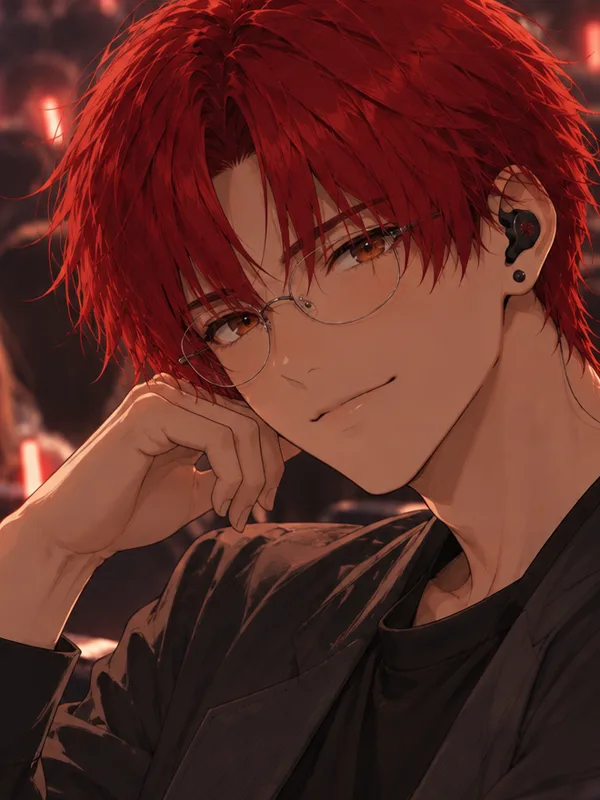
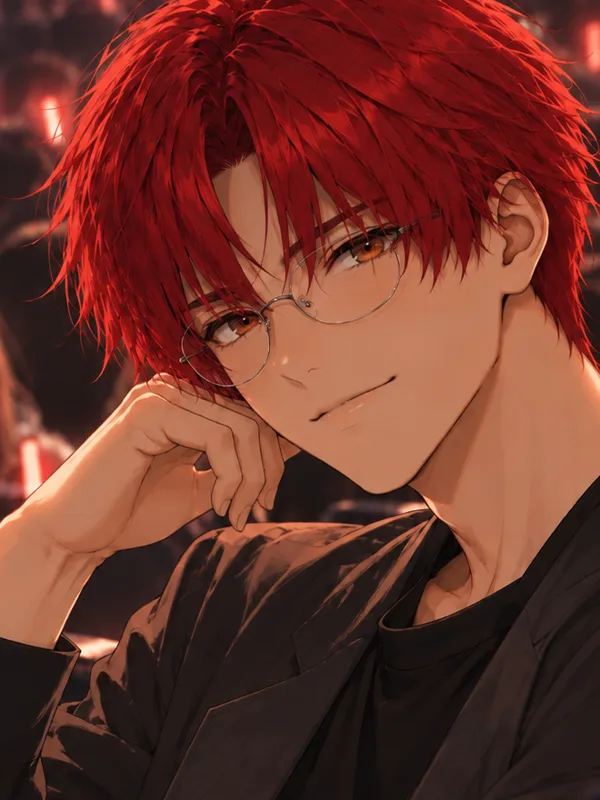
After the Snow：子どもたちの絵を前編・後編で切り替えるボタンを追加・あらすじに一文追加・ヒナタの顔を大きく・コウタの絵を差し替え
Claude-Session: https://claude.ai/code/session_01FdSiFhqbN4GMZTxUURhhZr

diff --git a/stories/snowflakes/arc/arcs.js b/stories/snowflakes/arc/arcs.js
@@ -96,12 +96,13 @@ window.SF_ARCS = [
     songs: [], gallery: [] },
   { id: 'after-the-snow', group: 'ch2', no: 1, color: 'mikoto', title: 'After the Snow', en: 'After the Snow',
     parts: [{ name: '前編', from: 310, to: 355 }, { name: '後編', from: 356, to: null }],   // ep.356 から後編（2026-11-14 ユーザー）。to: null … 連載中（episodes.js の最後まで）
-    kindle: null, lead: "バンドも、家族も、それぞれの毎日も。\n\n三人の音は、まだ続いている。", ongoing: true, shorts: [], songs: [], gallery: [],
+    kindle: null, lead: "バンドも、家族も、それぞれの毎日も。\n\n三人の音は、まだ続いている。\n\nそして、その音を聴いて育った子どもたちの物語。", ongoing: true, shorts: [], songs: [], gallery: [],
     // 登場人物（2026-11-14 ユーザー）。img はこのフォルダからのパス、c は枠の色（hinata / kouta / hayate）
+    //   imgs：前編・後編で絵を分ける人（{ 前編: 画像, 後編: 画像 }）。切り替えボタンで出し分ける。img だけの人は、どちらでも同じ絵
     chars: [
-      { name: 'ミコト', desc: 'ヒナタと小雪の娘', img: 'img/chara_mikoto_v2.webp', c: 'hinata', alt: 'ミコト。並木道で、かばんを肩にかけた黒髪ロングの女性' },
-      { name: 'ヒカリ', desc: 'ハヤテとりんの娘', img: 'img/chara_hikari_v2.webp', c: 'hayate', alt: 'ヒカリ。並木道で笑う、茶色のショートヘアの女性' },
-      { name: 'ユウキ', desc: 'コウタとあかりの息子', img: 'img/chara_yuuki.webp', c: 'kouta', alt: 'ユウキ。バイオリンを弾く、赤髪の青年' },
+      { name: 'ミコト', desc: 'ヒナタと小雪の娘', imgs: { 前編: 'img/chara_mikoto.webp', 後編: 'img/chara_mikoto_v2.webp' }, c: 'hinata', alt: 'ミコト。黒髪ロングの女性' },
+      { name: 'ヒカリ', desc: 'ハヤテとりんの娘', imgs: { 前編: 'img/chara_hikari.webp', 後編: 'img/chara_hikari_v2.webp' }, c: 'hayate', alt: 'ヒカリ。茶色のショートヘアの女性' },
+      { name: 'ユウキ', desc: 'コウタとあかりの息子', imgs: { 前編: 'img/chara_yuuki.webp', 後編: 'img/chara_yuuki.webp' }, c: 'kouta', alt: 'ユウキ。バイオリンを弾く、赤髪の青年' },   // 後編の絵は届いたら差し替え
       // 2段目は Snow flakes の三人（上の段と同じ順：ヒナタ・ハヤテ・コウタ）。「〜の父」とは書かない（2026-11-14 ユーザー）
       { name: 'ヒナタ', desc: 'Snow flakes ギターボーカル', img: 'img/chara_hinata.webp', c: 'hinata', alt: 'ヒナタ。青いペンライトが光る客席で、キャップをかぶり頬杖をつく' },
       { name: 'ハヤテ', desc: 'Snow flakes ドラム', img: 'img/chara_hayate.webp', c: 'hayate', alt: 'ハヤテ。紫のペンライトが光る客席で、サングラスに手をかけて振り返り笑う' },

diff --git a/stories/arc/arc.js b/stories/arc/arc.js
@@ -142,10 +142,22 @@
   var charsEl = $('#arc-chars');
   if (charsEl) {
     var chars = arc.chars || [];
-    charsEl.innerHTML = chars.length ? '<div class="arc-chars">' + chars.map(function (c) {
-      return '<figure class="arc-char' + (c.c ? ' c-' + esc(c.c) : '') + '"><img src="' + esc(c.img) + '" alt="' + esc(c.alt || c.name) + '" loading="lazy">' +
-        '<figcaption><span class="arc-char-name">' + esc(c.name) + '</span>' + (c.role ? '<span class="arc-char-role">' + esc(c.role) + '</span>' : '') + '<span class="arc-char-desc">' + esc(c.desc || '') + '</span></figcaption></figure>';
-    }).join('') + '</div>' : '';
+    // 前編・後編で絵を分ける人がいれば、切り替えボタンを出す（最初は最新の編。2026-11-14）
+    var keys = [];
+    chars.forEach(function (c) { if (c.imgs) Object.keys(c.imgs).forEach(function (k) { if (keys.indexOf(k) < 0) keys.push(k); }); });
+    var pick = keys.length ? keys[keys.length - 1] : null;
+    var drawChars = function () {
+      charsEl.innerHTML = (keys.length > 1 ? '<div class="arc-char-tabs" role="tablist">' + keys.map(function (k) {
+          return '<button type="button" role="tab" class="arc-char-tab' + (k === pick ? ' is-on' : '') + '" aria-selected="' + (k === pick) + '" data-k="' + esc(k) + '">' + esc(k) + '</button>';
+        }).join('') + '</div>' : '') +
+        '<div class="arc-chars">' + chars.map(function (c) {
+          var img = c.imgs ? (c.imgs[pick] || c.imgs[keys[0]]) : c.img;
+          return '<figure class="arc-char' + (c.c ? ' c-' + esc(c.c) : '') + '"><img src="' + esc(img) + '" alt="' + esc((c.alt || c.name) + (c.imgs && pick ? '（' + pick + '）' : '')) + '" loading="lazy">' +
+            '<figcaption><span class="arc-char-name">' + esc(c.name) + '</span>' + (c.role ? '<span class="arc-char-role">' + esc(c.role) + '</span>' : '') + '<span class="arc-char-desc">' + esc(c.desc || '') + '</span></figcaption></figure>';
+        }).join('') + '</div>';
+      charsEl.querySelectorAll('.arc-char-tab').forEach(function (b) { b.addEventListener('click', function () { pick = b.dataset.k; drawChars(); }); });
+    };
+    if (chars.length) drawChars(); else charsEl.innerHTML = '';
     $('#characters').hidden = !chars.length;
   }
   $('#songs').hidden = !songs.length;

diff --git a/stories/arc/arc.css b/stories/arc/arc.css
@@ -214,3 +214,8 @@ footer { text-align: center; padding: 40px 20px 60px; font-size: 12px; color: va
 .arc-char-desc { font-size: 12px; line-height: 1.7; color: #94a3b8; }
 .arc-char-role { font-size: 11px; letter-spacing: 1px; color: rgba(var(--c), 0.9); }
 @media (max-width: 600px) { .arc-chars { gap: 8px; } .arc-char figcaption { padding: 8px 8px 10px; gap: 2px; } .arc-char-name { font-size: 14px; letter-spacing: 1px; } .arc-char-role { font-size: 9.5px; letter-spacing: 0; } .arc-char-desc { font-size: 10.5px; line-height: 1.5; } }
+/* 登場人物：前編・後編の切り替え（2026-11-14） */
+.arc-char-tabs { display: inline-flex; gap: 4px; padding: 3px; margin-bottom: 14px; border: 1px solid rgba(255,255,255,0.12); border-radius: 999px; }
+.arc-char-tab { appearance: none; border: 0; background: transparent; color: #94a3b8; font: inherit; font-size: 13px; letter-spacing: 2px; padding: 6px 18px; border-radius: 999px; cursor: pointer; }
+.arc-char-tab.is-on { background: rgba(207,238,250,0.16); color: #e2e8f0; }
+.arc-char-tab:focus-visible { outline: 2px solid #cfeefa; outline-offset: 2px; }
